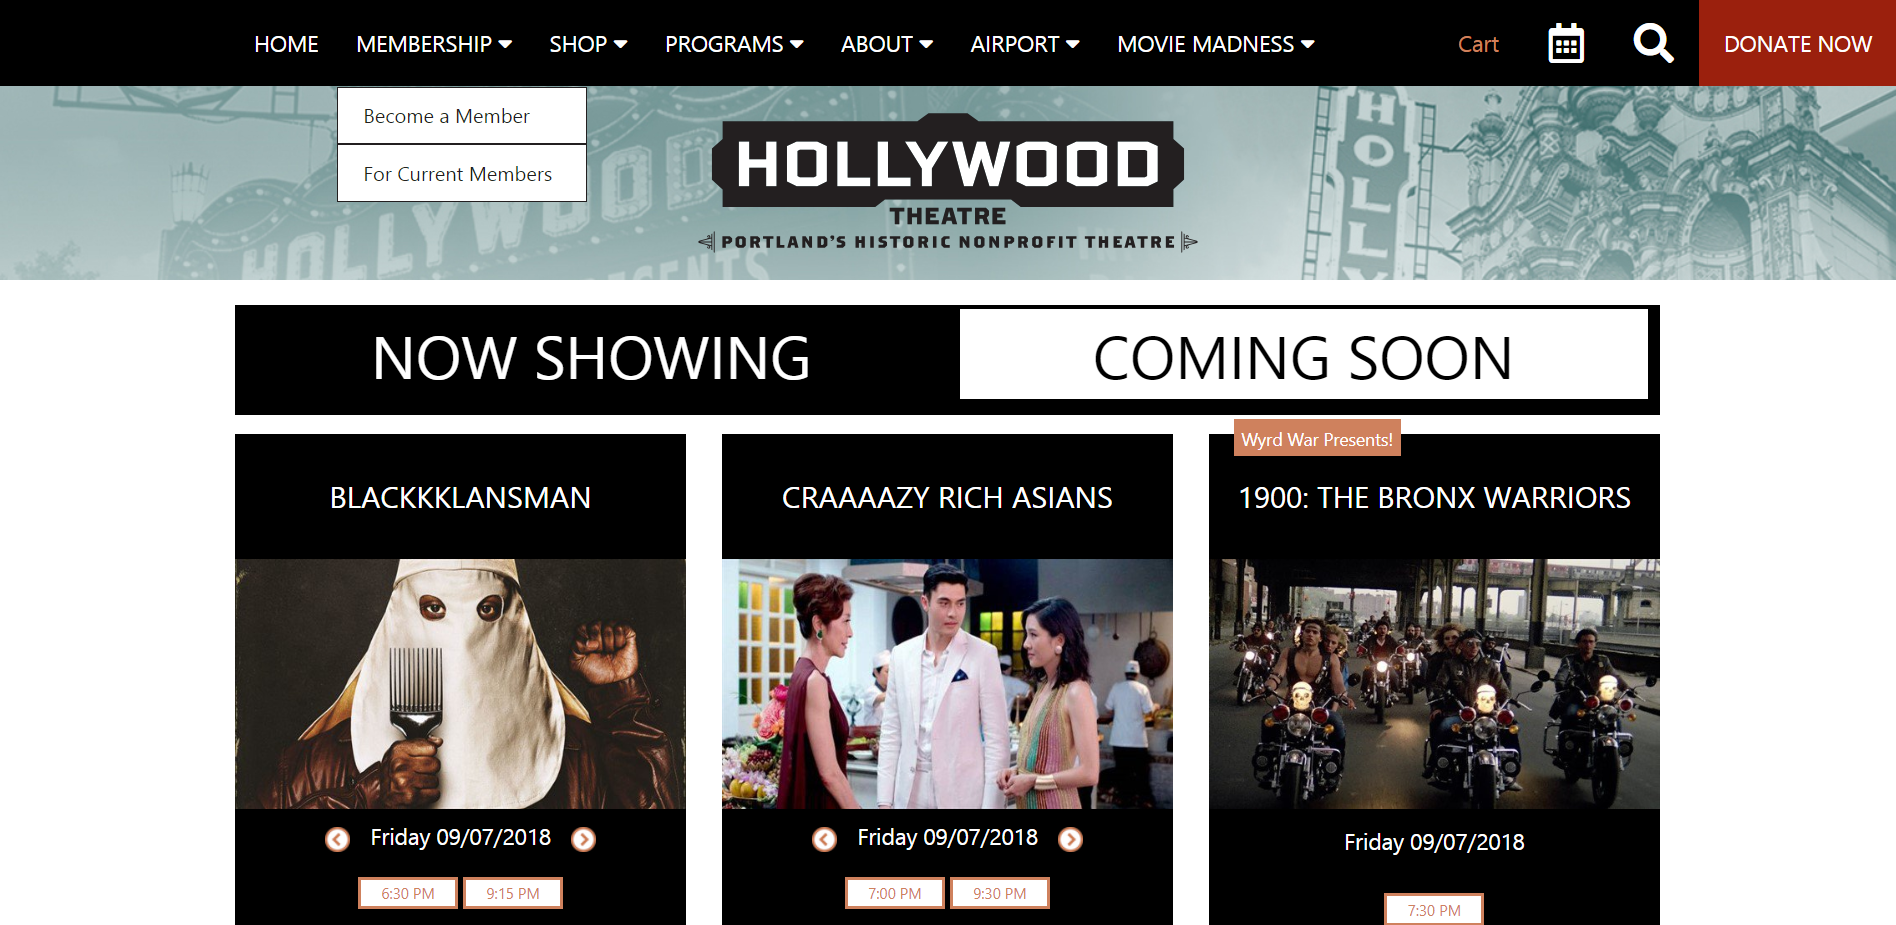
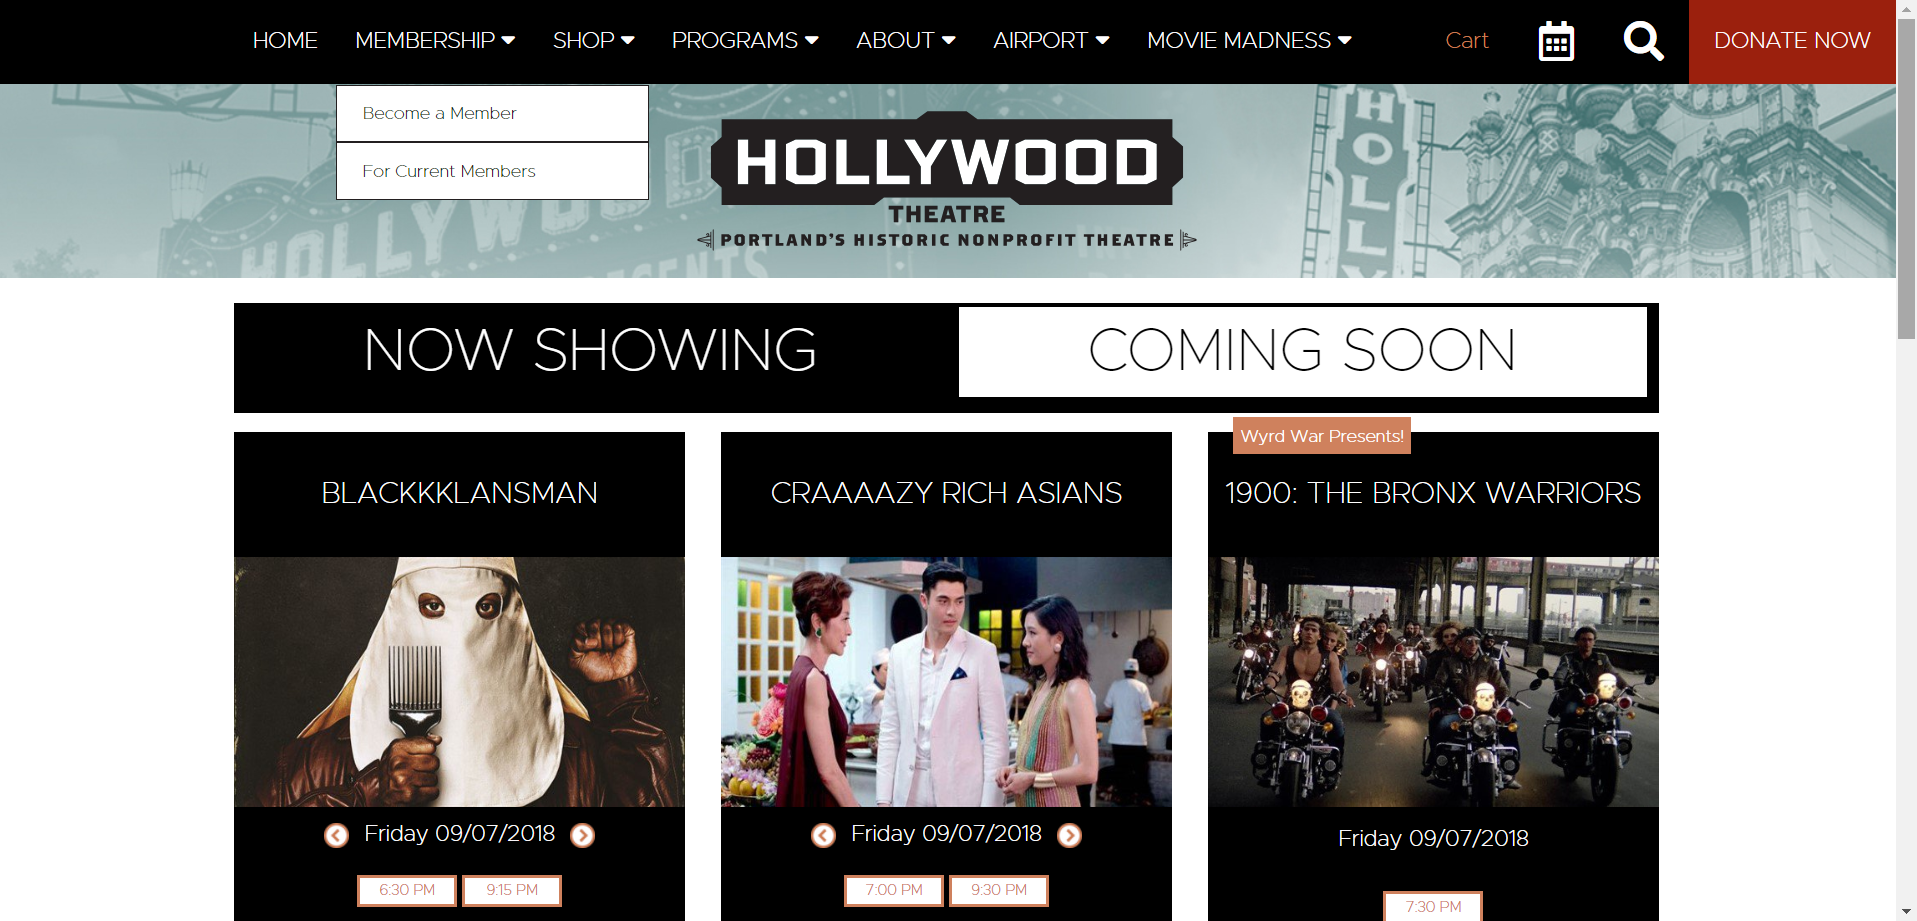
Final changes, update dropdown list style rules, final screenshot.

diff --git a/scss/input.scss b/scss/input.scss
@@ -2,13 +2,35 @@
 @import "mixins";
 
 @font-face {
-  font-family: workGodDamnit;
+  font-family: Metropolis;
   src: url("../fonts/metropolis/Metropolis-Thin.otf");
 }
 
 body {
-  font-family: workGodDamnit;
+  font-family: Metropolis;
 }
+
+// Attempted responsive design. This did *not* go well.
+
+// @media screen and (min-width: 1200px) {
+//   .wrapper {
+//     width: $wrapper-width-lg;
+//   }
+// }
+//
+// @media screen and (max-width: 1200px) and (min-width: 1024px) {
+//   // body {
+//   //   background-color: black;
+//   // }
+//
+//   .wrapper {
+//     width: 970px;
+//   }
+//
+//   // .movie-box {
+//   //   width: (95% / 2);
+//   // }
+// }
 
 // Style rules to contain content within fixed width, the top nav bar, main content and footer will all be contained in a wrapper div
 .wrapper {
@@ -57,12 +79,12 @@ body {
 }
 
 .drop-nav-item {
-  width: 200px;
+  width: 250px;
   background-color: white;
   padding: 10px 20px;
   border: 1px solid #231f20;
   a {
-    @include grey-links(16px);
+    @include grey-links(14px);
   }
   &:hover {
     background-color: darken(white, 10%);

diff --git a/css/output.css b/css/output.css
@@ -1,9 +1,9 @@
 @font-face {
-  font-family: workGodDamnit;
+  font-family: Metropolis;
   src: url("../fonts/metropolis/Metropolis-Thin.otf"); }
 
 body {
-  font-family: workGodDamnit; }
+  font-family: Metropolis; }
 
 .wrapper {
   width: 1170px;
@@ -81,12 +81,12 @@ body {
   width: auto; }
 
 .drop-nav-item {
-  width: 200px;
+  width: 250px;
   background-color: white;
   padding: 10px 20px;
   border: 1px solid #231f20; }
   .drop-nav-item a {
-    font-size: 16px;
+    font-size: 14px;
     color: #231f20; }
     .drop-nav-item a:hover {
       text-decoration: none; }

diff --git a/scss/variables.scss b/scss/variables.scss
@@ -1,1 +1,2 @@
 $wrapper-width-lg: 1170px;
+$wrapper-width-md: 970px;
